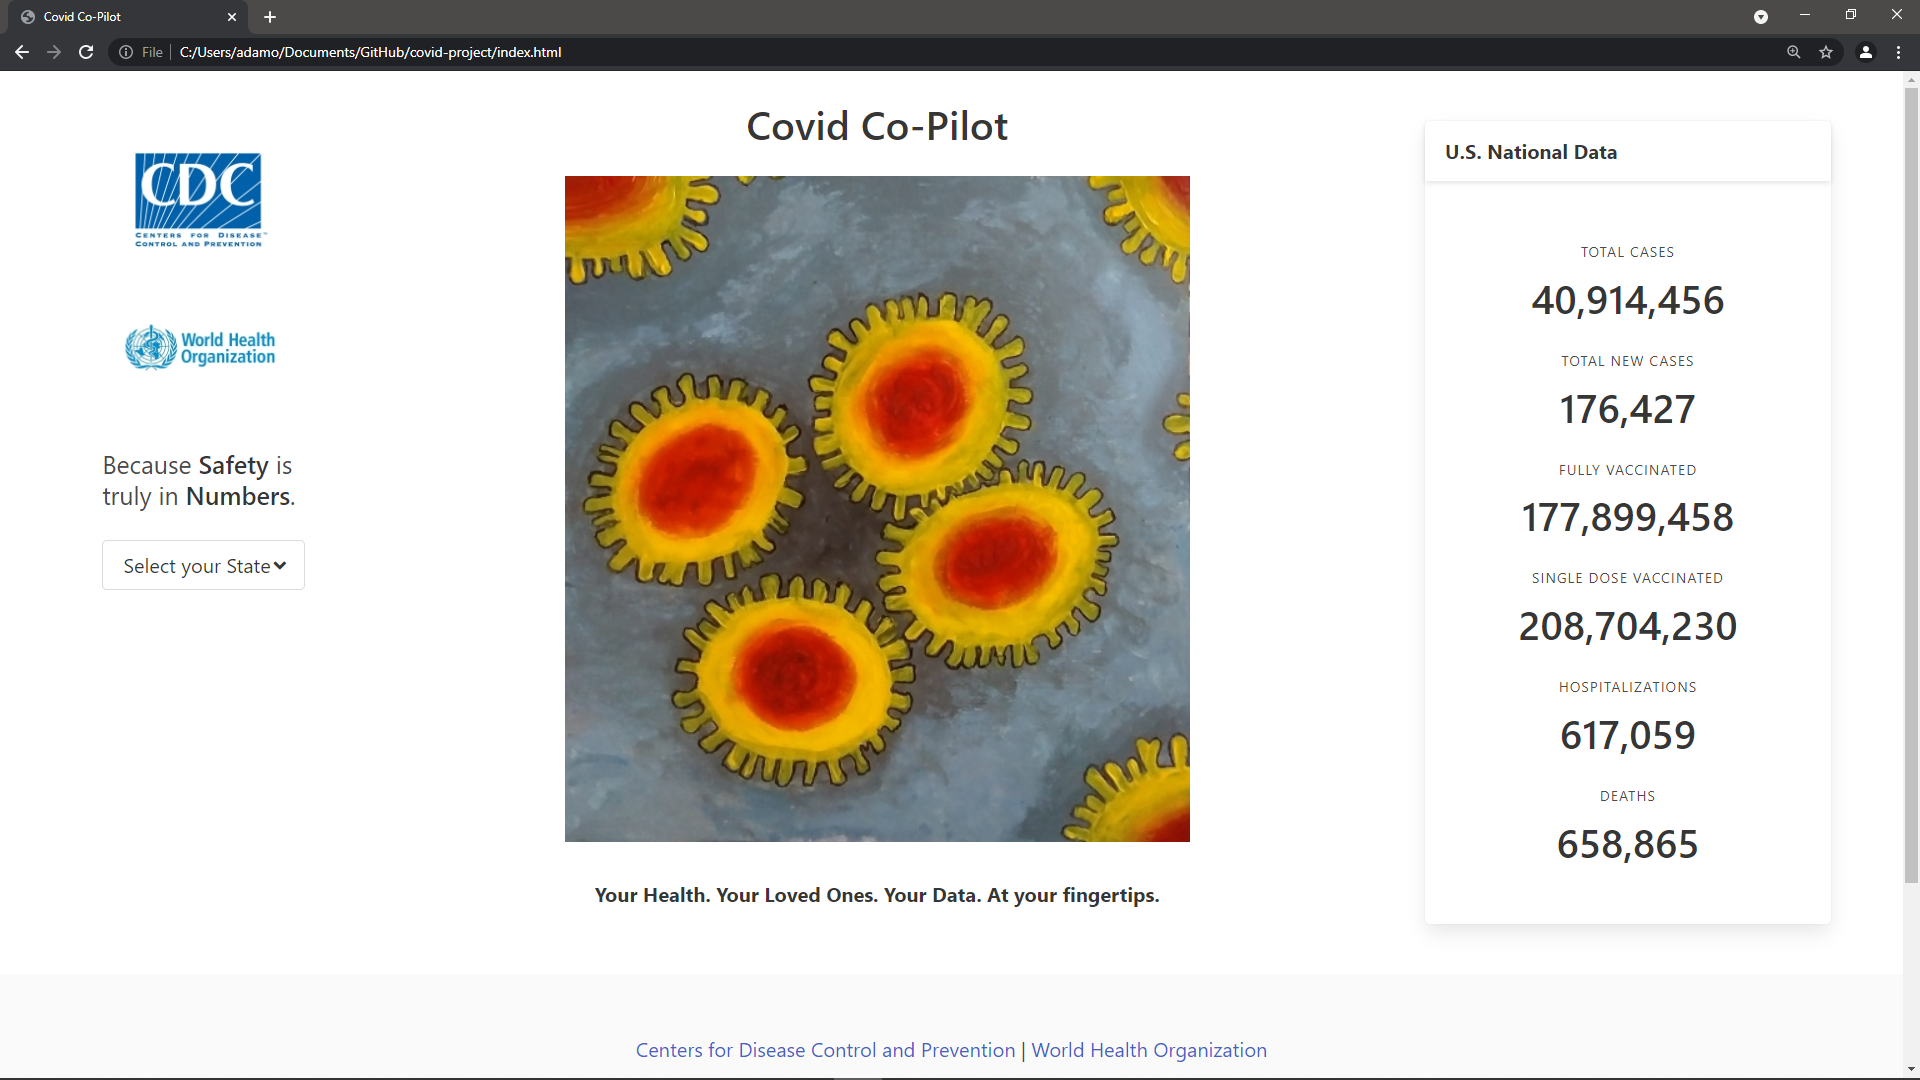
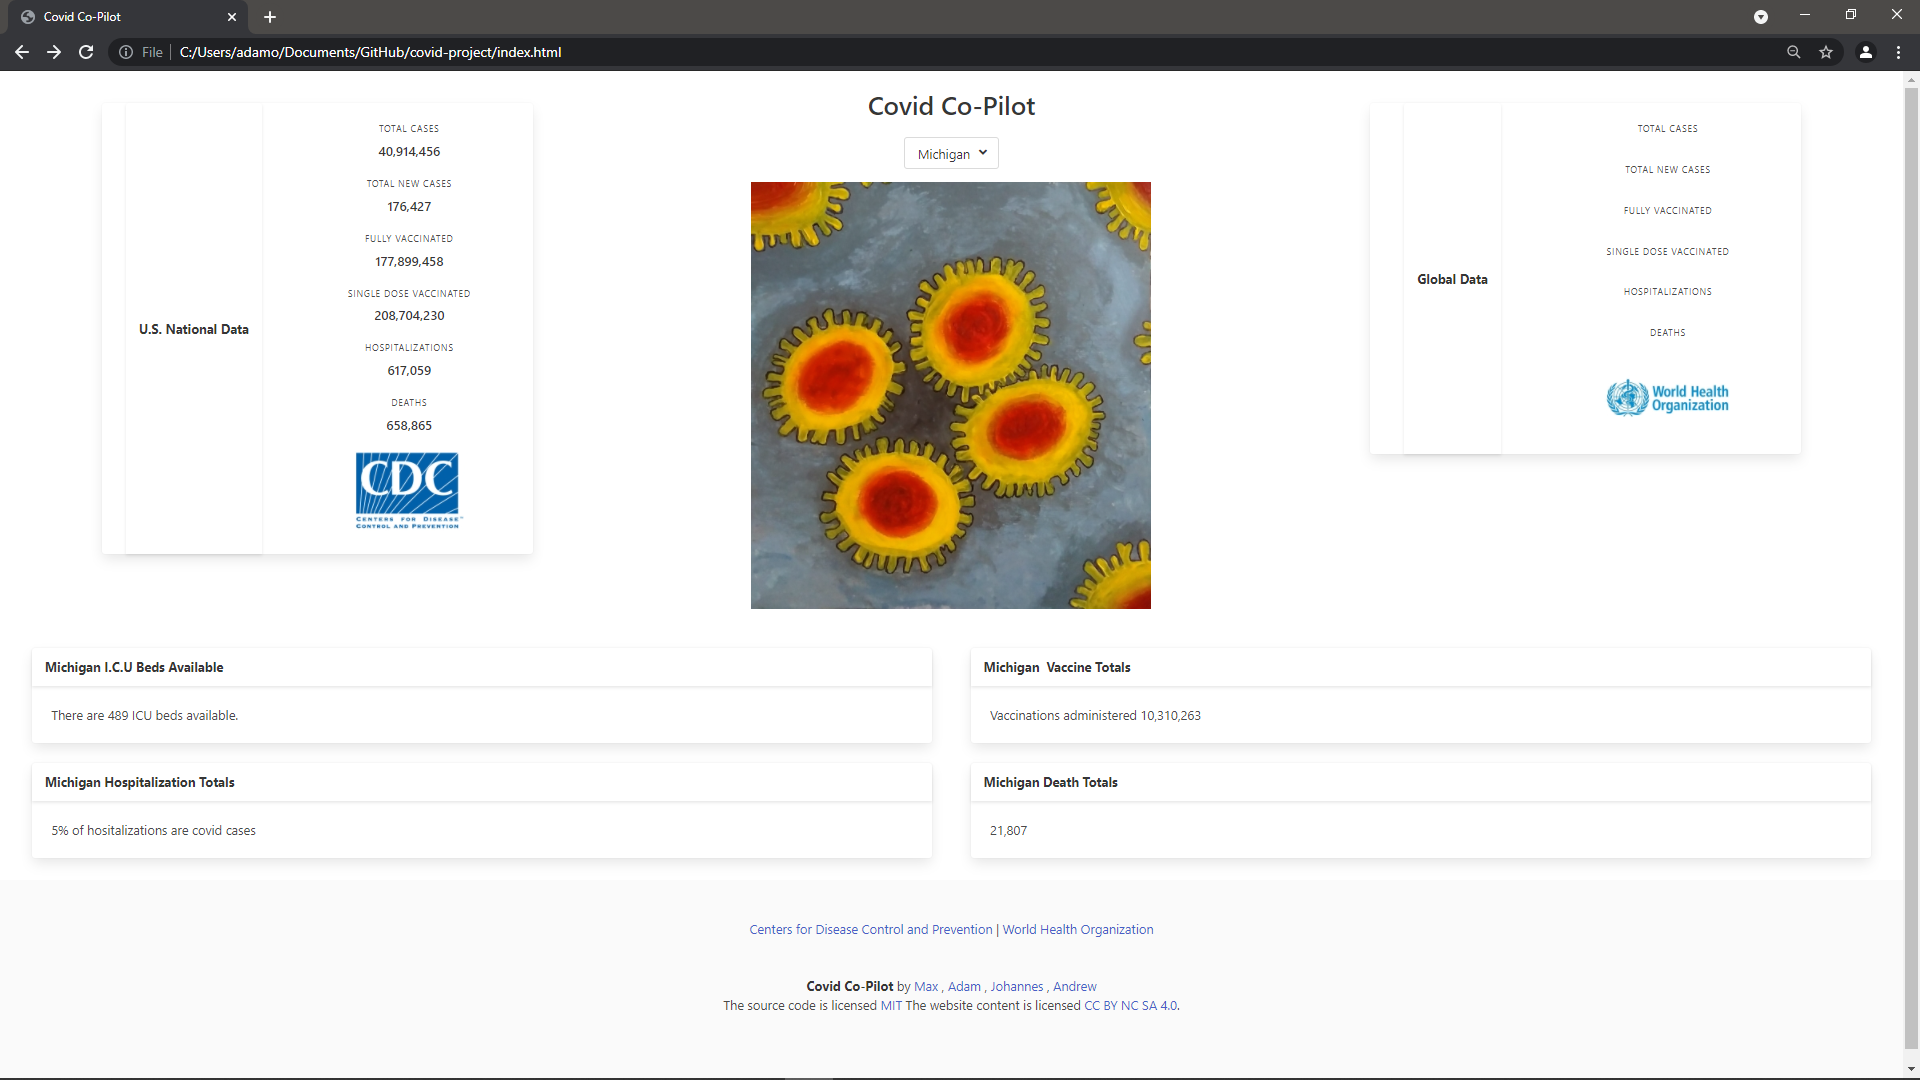
updated screenshot

diff --git a/index.html b/index.html
@@ -13,7 +13,7 @@
   <div class="tile is-flex is-flex-direction-row is-justify-content-space-evenly is-flex-direction-column-mobile">
     <!--Global Covid Data Level Startis-flex is-justify-content-space-evenly-->
     <div class="tile is-3 p-4 m-3 is-mobile">
-      <div class="column  is-left">
+      <div class="column is-centered">
         <div class="card is-flex is-justify-content-space-evenly">
           <header class="card-header">
             <p class="card-header-title">U.S. National Data</p>
@@ -80,7 +80,6 @@
     <div class="tile is-4 mt-5 is-mobile">
       <div class="container has-text-centered is-flex is-flex-direction-column ">
         <p class="title">Covid Co-Pilot</p>
-
         <div class="tile is-flex is-justify-content-center is-align-content-center">
               <div class="dropdown" id="dropdown-menu">
                 <div class="dropdown-trigger">
@@ -158,8 +157,8 @@
     <!--Covid Art Center Piece - Lower Text & Input Field End-->
 
     <!--National Covid Data Level Start-->
-    <div class="tile is-3 p-4 m-3 is-flex is-justify-content-space-evenly is-mobile">
-      <div class="column is-left is-mobile">
+    <div class="tile is-3 p-4 m-3 is-mobile">
+      <div class="column is-centered">
         <div class="card is-flex is-justify-content-space-evenly">
           <header class="card-header">
             <p class="card-header-title">Global Data</p>
